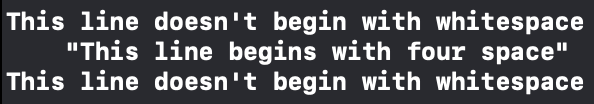
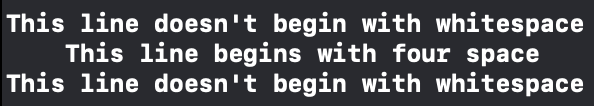
rebuilding site Fri Jul 29 13:10:06 AWST 2022

diff --git a/p/string-literals/index.html b/p/string-literals/index.html
@@ -465,7 +465,7 @@ if (!doNotTrack) {
 <td class="lntd">
 <pre tabindex="0" class="chroma"><code class="language-swift" data-lang="swift"><span class="line"><span class="cl"><span class="kd">let</span> <span class="nv">lineWithIndentation</span> <span class="p">=</span> <span class="s">&#34;&#34;&#34;
 </span></span></span><span class="line"><span class="cl"><span class="s">    This line doesn&#39;t begin with whitespace
-</span></span></span><span class="line"><span class="cl"><span class="s">        &#34;</span><span class="n">This</span> <span class="n">line</span> <span class="n">begins</span> <span class="n">with</span> <span class="n">four</span> <span class="n">space</span><span class="s">&#34;
+</span></span></span><span class="line"><span class="cl"><span class="s">        This line begins with four space
 </span></span></span><span class="line"><span class="cl"><span class="s">    This line doesn&#39;t begin with whitespace
 </span></span></span><span class="line"><span class="cl"><span class="s">    &#34;&#34;&#34;</span>
 </span></span></code></pre></td></tr></table>
